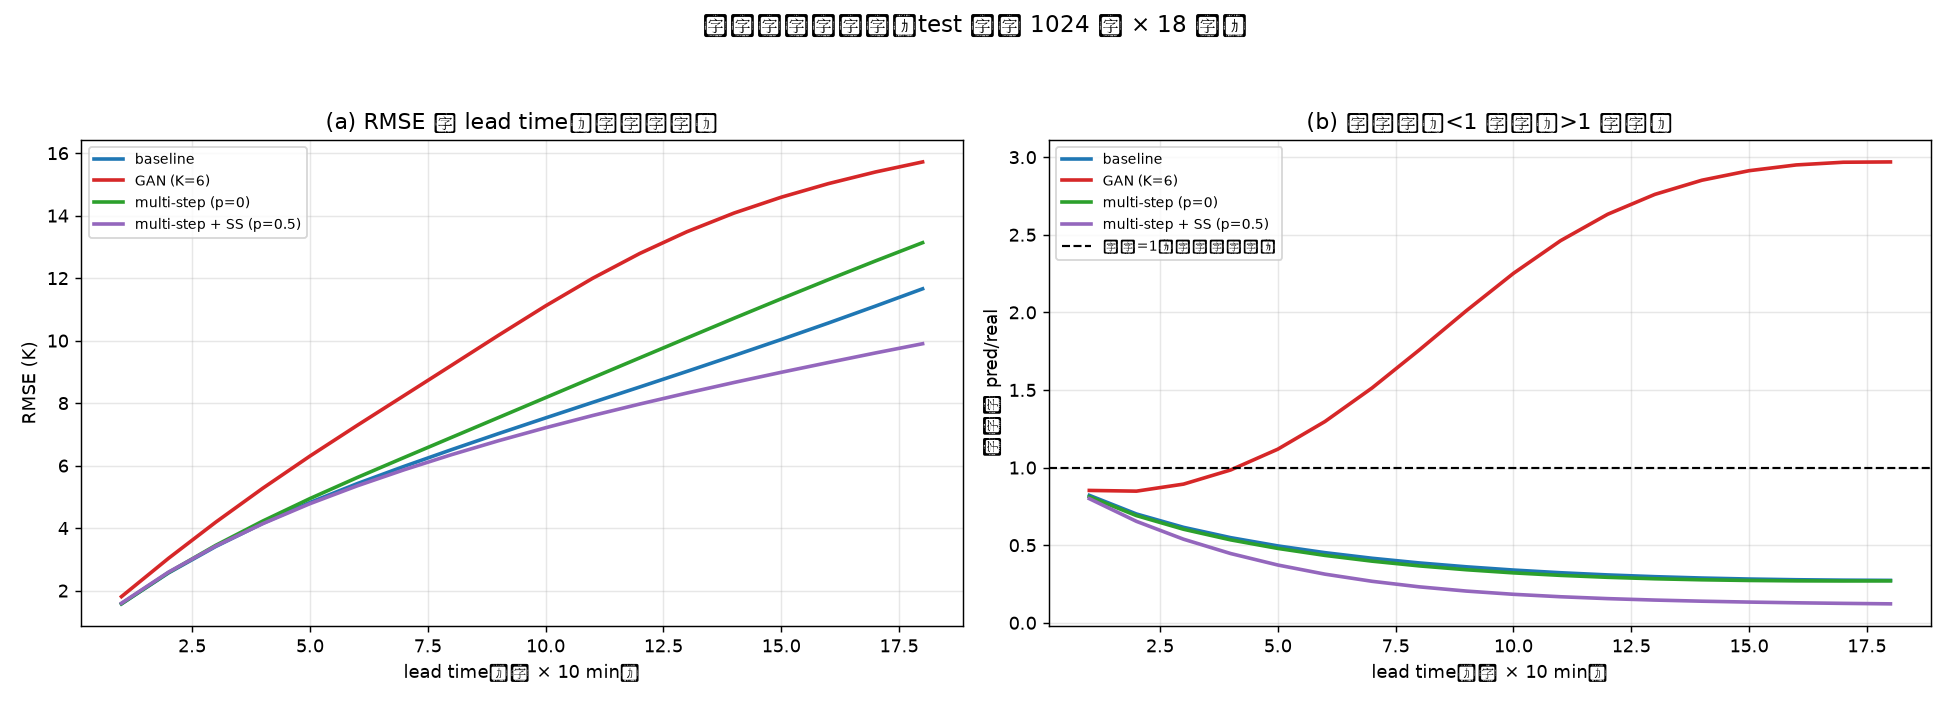
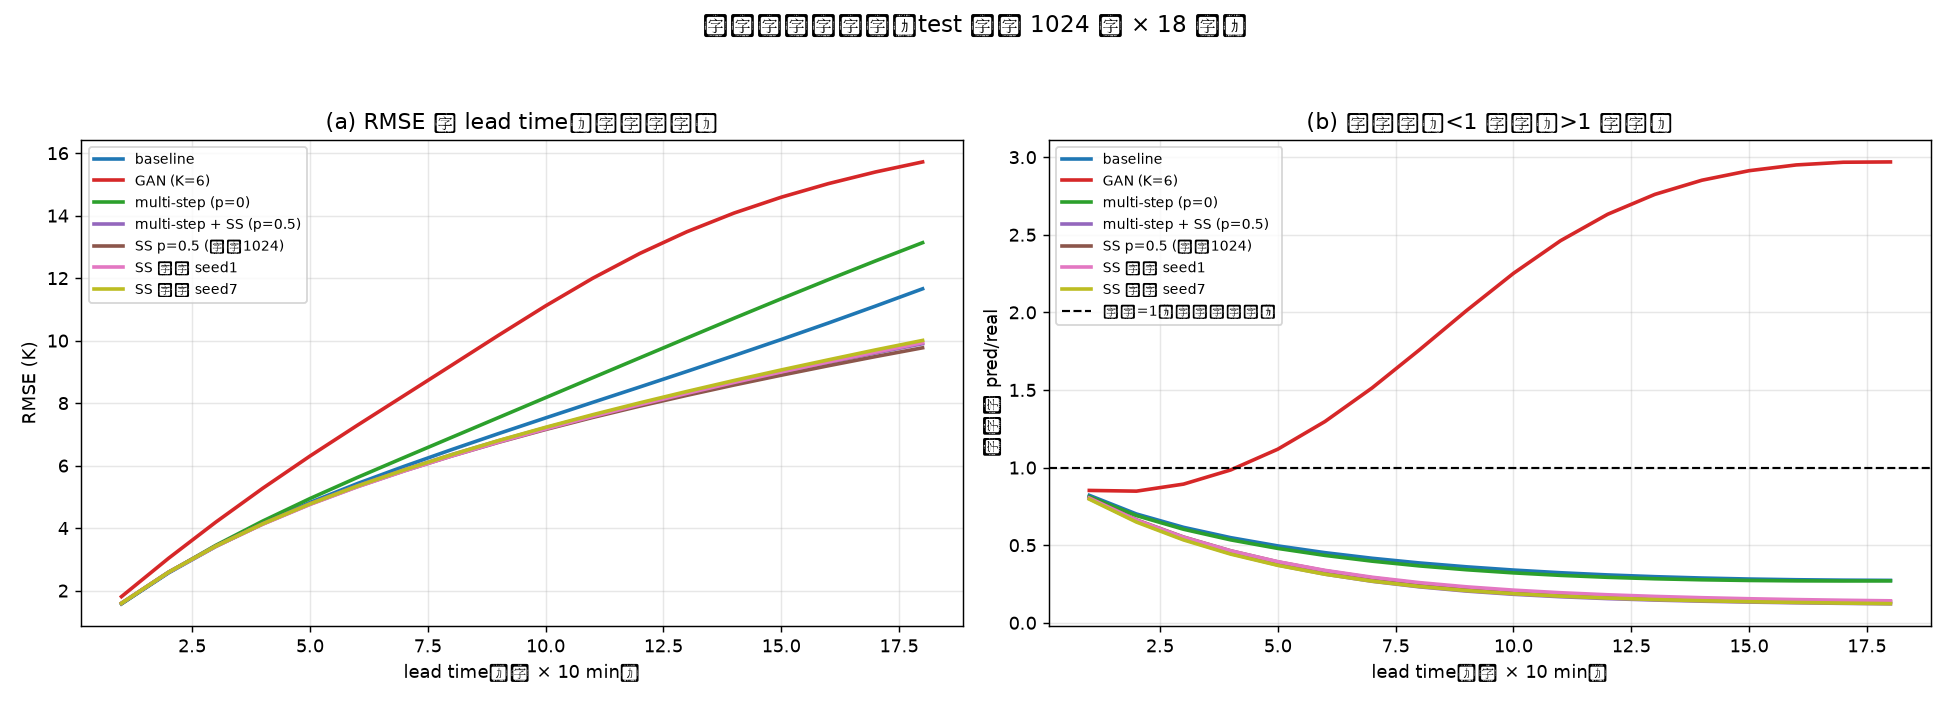
完成对三种模型和长时效本身的对比

diff --git a/reproduction/simvp/OpenSTL/tools/train_simvp_rollout.py b/reproduction/simvp/OpenSTL/tools/train_simvp_rollout.py
@@ -114,6 +114,10 @@ def main():
                     help='多步训练数据（该集 output 有 18 帧真值）')
     ap.add_argument('--n-train', type=int, default=800, help='训练用样本数（取前 N 条）')
     ap.add_argument('--n-val', type=int, default=224, help='验证用样本数（取后 M 条）')
+    ap.add_argument('--val-source', choices=['validation', 'train'],
+                    default='validation',
+                    help='验证集来源：validation=从多步训练集中切分（默认）；'
+                         'train=改用 train zarr 留出子集，从而训练集可用满全量')
     ap.add_argument('--rollout-steps', type=int, default=6)
     ap.add_argument('--sched-samp', type=float, default=0.0,
                     help='scheduled sampling 概率 p（0=纯 teacher forcing）')
@@ -145,16 +149,34 @@ def main():
         print(f'[INIT] 已从 {args.init_ckpt} 热启动')
     G.to(device)
 
-    # 数据源：validation 集（output 有 18 帧真值），按索引切分
+    # 数据源：多步监督要求 output 有 ≥K 帧真值，只有 validation 集满足（18 帧）。
+    # 两种配置：
+    #   --val-source validation（默认）：validation 集自身切分训练/验证
+    #   --val-source train：训练集用满**全部** validation 样本，
+    #     验证集改用 train zarr 的末尾留出子集（仅 1 帧真值 → 按单步 MSE 验证）。
+    #     这样能解除"训练集最多 1024 条"的上限，用于检验收益是否只是小样本假象。
     zarr_path = osp.join(args.data_root, args.train_zarr)
     full = SatcastZarrDataset(zarr_path, pre_seq_length=2, aft_seq_length=K)
     n_total = len(full)
-    n_tr = min(args.n_train, n_total - args.n_val)
-    n_va = min(args.n_val, n_total - n_tr)
-    train_set = _SubsetWithAttrs(full, range(0, n_tr))
-    val_set = _SubsetWithAttrs(full, range(n_total - n_va, n_total))
-    print(f'[DATA] {osp.basename(zarr_path)}  总 {n_total} 条 -> '
-          f'train {len(train_set)} / val {len(val_set)}（test 集保持 held-out）')
+    if args.val_source == 'train':
+        n_tr = min(args.n_train, n_total)
+        train_set = _SubsetWithAttrs(full, range(0, n_tr))
+        train_zarr = SatcastZarrDataset(
+            osp.join(args.data_root, 'edm_GOES_ch13_train_dataset.zarr'),
+            pre_seq_length=2, aft_seq_length=1)
+        n_va = min(args.n_val, len(train_zarr))
+        val_set = _SubsetWithAttrs(
+            train_zarr, range(len(train_zarr) - n_va, len(train_zarr)))
+        print(f'[DATA] 训练 = validation 集前 {n_tr} 条（output {K} 帧真值，全量）；'
+              f'验证 = train 集末尾 {n_va} 条（单步 MSE，1 帧真值）；'
+              f'test 集保持 held-out')
+    else:
+        n_tr = min(args.n_train, n_total - args.n_val)
+        n_va = min(args.n_val, n_total - n_tr)
+        train_set = _SubsetWithAttrs(full, range(0, n_tr))
+        val_set = _SubsetWithAttrs(full, range(n_total - n_va, n_total))
+        print(f'[DATA] {osp.basename(zarr_path)}  总 {n_total} 条 -> '
+              f'train {len(train_set)} / val {len(val_set)}（test 集保持 held-out）')
 
     persistent = args.num_workers > 0
     train_loader = create_loader(
@@ -227,8 +249,11 @@ def main():
         with torch.no_grad():
             for xb, yb in val_loader:
                 xb, yb = xb.to(device), yb.to(device)
-                p = rollout_with_ss(G, xb, yb, K, 0.0)      # 验证时不用 SS
-                vsum += float(sum(F.mse_loss(p[k], yb[:, k]) for k in range(K)) / K)
+                # kv 动态：validation 集为 K 帧；train 集仅 1 帧
+                kv = yb.shape[1]
+                p = rollout_with_ss(G, xb, yb, kv, 0.0)      # 验证时不用 SS
+                vsum += float(sum(F.mse_loss(p[k], yb[:, k])
+                                  for k in range(kv)) / kv)
                 vnb += 1
         val = vsum / max(vnb, 1)
         rec = {'epoch': epoch, 'train_loss': tot / max(nb, 1),

diff --git a/reproduction/simvp/OpenSTL/tools/compare_arms.py b/reproduction/simvp/OpenSTL/tools/compare_arms.py
@@ -61,7 +61,13 @@ ARMS = [
     ('multi-step (p=0)', 'satcast_simvp_rollout_ss0.0', '#2ca02c',
      '多步 MSE，滚 6 步，teacher forcing'),
     ('multi-step + SS (p=0.5)', 'satcast_simvp_rollout_ss0.5', '#9467bd',
-     '多步 MSE + scheduled sampling 概率 0.5'),
+     '多步 MSE + scheduled sampling 概率 0.5（validation 800 条）'),
+    ('SS p=0.5 (全量1024)', 'satcast_simvp_rollout_ss05_full', '#8c564b',
+     '多步 MSE + scheduled sampling 0.5，训练用满 validation 1024 条'),
+    ('SS 全量 seed1', 'satcast_simvp_rollout_ss05_full_seed1', '#e377c2',
+     '同上，seed=1（用于 3-seed mean±std）'),
+    ('SS 全量 seed7', 'satcast_simvp_rollout_ss05_full_seed7', '#bcbd22',
+     '同上，seed=7（用于 3-seed mean±std）'),
 ]
 OUT_DIR = osp.join(_OPENSTL_DIR, 'docs', 'experiments', 'EXP-006-anti-blur')
 SUB = 'baseline_eval_rollout18_full'

diff --git a/reproduction/simvp/OpenSTL/docs/experiments/EXP-006-anti-blur/README.md b/reproduction/simvp/OpenSTL/docs/experiments/EXP-006-anti-blur/README.md
@@ -23,55 +23,58 @@
 
 ### 逐时效 RMSE（K）
 
-| LT | baseline | GAN (K=6) | multi-step (p=0) | multi-step + SS (p=0.5) |
-|---|---|---|---|---|
-|  1 |  1.576 |  1.807 |  1.577 |  1.597 |
-|  2 |  2.567 |  3.035 |  2.580 |  2.593 |
-|  3 |  3.411 |  4.189 |  3.448 |  3.424 |
-|  4 |  4.154 |  5.277 |  4.227 |  **4.143** |
-|  5 |  4.820 |  6.306 |  4.945 |  **4.782** |
-|  6 |  5.422 |  7.285 |  5.617 |  **5.351** |
-|  7 |  5.977 |  8.244 |  6.261 |  **5.868** |
-|  8 |  6.509 |  9.206 |  6.900 |  **6.348** |
-|  9 |  7.024 |  10.170 |  7.538 |  **6.796** |
-| 10 |  7.527 |  11.112 |  8.175 |  **7.212** |
-| 11 |  8.024 |  11.996 |  8.813 |  **7.604** |
-| 12 |  8.517 |  12.791 |  9.450 |  **7.971** |
-| 13 |  9.016 |  13.486 |  10.085 |  **8.323** |
-| 14 |  9.522 |  14.084 |  10.717 |  **8.661** |
-| 15 |  10.036 |  14.590 |  11.339 |  **8.986** |
-| 16 |  10.563 |  15.024 |  11.951 |  **9.299** |
-| 17 |  11.105 |  15.398 |  12.551 |  **9.606** |
-| 18 |  11.659 |  15.719 |  13.135 |  **9.901** |
+| LT | baseline | GAN (K=6) | multi-step (p=0) | multi-step + SS (p=0.5) | SS p=0.5 (全量1024) | SS 全量 seed1 | SS 全量 seed7 |
+|---|---|---|---|---|---|---|---|
+|  1 |  1.576 |  1.807 |  1.577 |  1.597 |  1.595 |  1.593 |  1.595 |
+|  2 |  2.567 |  3.035 |  2.580 |  2.593 |  2.590 |  2.585 |  2.590 |
+|  3 |  3.411 |  4.189 |  3.448 |  3.424 |  3.419 |  3.411 |  3.421 |
+|  4 |  4.154 |  5.277 |  4.227 |  **4.143** |  **4.134** |  **4.125** |  **4.138** |
+|  5 |  4.820 |  6.306 |  4.945 |  **4.782** |  **4.766** |  **4.756** |  **4.776** |
+|  6 |  5.422 |  7.285 |  5.617 |  **5.351** |  **5.326** |  **5.318** |  **5.344** |
+|  7 |  5.977 |  8.244 |  6.261 |  **5.868** |  **5.833** |  **5.828** |  **5.862** |
+|  8 |  6.509 |  9.206 |  6.900 |  **6.348** |  **6.304** |  **6.305** |  **6.346** |
+|  9 |  7.024 |  10.170 |  7.538 |  **6.796** |  **6.744** |  **6.752** |  **6.801** |
+| 10 |  7.527 |  11.112 |  8.175 |  **7.212** |  **7.155** |  **7.173** |  **7.227** |
+| 11 |  8.024 |  11.996 |  8.813 |  **7.604** |  **7.541** |  **7.573** |  **7.630** |
+| 12 |  8.517 |  12.791 |  9.450 |  **7.971** |  **7.904** |  **7.951** |  **8.010** |
+| 13 |  9.016 |  13.486 |  10.085 |  **8.323** |  **8.250** |  **8.313** |  **8.374** |
+| 14 |  9.522 |  14.084 |  10.717 |  **8.661** |  **8.580** |  **8.663** |  **8.725** |
+| 15 |  10.036 |  14.590 |  11.339 |  **8.986** |  **8.893** |  **8.996** |  **9.062** |
+| 16 |  10.563 |  15.024 |  11.951 |  **9.299** |  **9.196** |  **9.318** |  **9.385** |
+| 17 |  11.105 |  15.398 |  12.551 |  **9.606** |  **9.489** |  **9.631** |  **9.703** |
+| 18 |  11.659 |  15.719 |  13.135 |  **9.901** |  **9.771** |  **9.935** |  **10.007** |
 
 ### 锐度比（pred 梯度 / real 梯度）
 
-| LT | baseline | GAN (K=6) | multi-step (p=0) | multi-step + SS (p=0.5) |
-|---|---|---|---|---|
-|  1 | 0.821 | 0.853 | 0.812 | 0.800 |
-|  2 | 0.701 | 0.848 | 0.691 | 0.654 |
-|  3 | 0.615 | 0.894 | 0.603 | 0.538 |
-|  4 | 0.549 | 0.985 | 0.534 | 0.446 |
-|  5 | 0.495 | 1.119 | 0.479 | 0.372 |
-|  6 | 0.452 | 1.297 | 0.434 | 0.313 |
-|  7 | 0.416 | 1.513 | 0.397 | 0.267 |
-|  8 | 0.386 | 1.757 | 0.367 | 0.232 |
-|  9 | 0.361 | 2.010 | 0.342 | 0.204 |
-| 10 | 0.340 | 2.251 | 0.322 | 0.184 |
-| 11 | 0.323 | 2.462 | 0.306 | 0.168 |
-| 12 | 0.308 | 2.632 | 0.293 | 0.156 |
-| 13 | 0.297 | 2.760 | 0.284 | 0.146 |
-| 14 | 0.288 | 2.852 | 0.277 | 0.139 |
-| 15 | 0.282 | 2.913 | 0.273 | 0.133 |
-| 16 | 0.277 | 2.950 | 0.270 | 0.129 |
-| 17 | 0.275 | 2.967 | 0.269 | 0.125 |
-| 18 | 0.273 | 2.969 | 0.270 | 0.122 |
+| LT | baseline | GAN (K=6) | multi-step (p=0) | multi-step + SS (p=0.5) | SS p=0.5 (全量1024) | SS 全量 seed1 | SS 全量 seed7 |
+|---|---|---|---|---|---|---|---|
+|  1 | 0.821 | 0.853 | 0.812 | 0.800 | 0.805 | 0.803 | 0.797 |
+|  2 | 0.701 | 0.848 | 0.691 | 0.654 | 0.663 | 0.662 | 0.649 |
+|  3 | 0.615 | 0.894 | 0.603 | 0.538 | 0.553 | 0.552 | 0.534 |
+|  4 | 0.549 | 0.985 | 0.534 | 0.446 | 0.464 | 0.464 | 0.442 |
+|  5 | 0.495 | 1.119 | 0.479 | 0.372 | 0.393 | 0.394 | 0.370 |
+|  6 | 0.452 | 1.297 | 0.434 | 0.313 | 0.335 | 0.338 | 0.313 |
+|  7 | 0.416 | 1.513 | 0.397 | 0.267 | 0.290 | 0.294 | 0.268 |
+|  8 | 0.386 | 1.757 | 0.367 | 0.232 | 0.254 | 0.259 | 0.234 |
+|  9 | 0.361 | 2.010 | 0.342 | 0.204 | 0.226 | 0.232 | 0.208 |
+| 10 | 0.340 | 2.251 | 0.322 | 0.184 | 0.204 | 0.210 | 0.187 |
+| 11 | 0.323 | 2.462 | 0.306 | 0.168 | 0.187 | 0.194 | 0.172 |
+| 12 | 0.308 | 2.632 | 0.293 | 0.156 | 0.173 | 0.181 | 0.159 |
+| 13 | 0.297 | 2.760 | 0.284 | 0.146 | 0.163 | 0.170 | 0.150 |
+| 14 | 0.288 | 2.852 | 0.277 | 0.139 | 0.154 | 0.162 | 0.142 |
+| 15 | 0.282 | 2.913 | 0.273 | 0.133 | 0.148 | 0.155 | 0.136 |
+| 16 | 0.277 | 2.950 | 0.270 | 0.129 | 0.142 | 0.150 | 0.131 |
+| 17 | 0.275 | 2.967 | 0.269 | 0.125 | 0.138 | 0.145 | 0.127 |
+| 18 | 0.273 | 2.969 | 0.270 | 0.122 | 0.134 | 0.142 | 0.123 |
 
 ### 结论（自动判定）
 
 - **GAN (K=6)**：LT=18 RMSE 恶化 34.8% ❌；锐度比 2.969（baseline 0.273）（过冲/噪声）
 - **multi-step (p=0)**：LT=18 RMSE 恶化 12.7% ❌；锐度比 0.270（baseline 0.273）（仍偏模糊）
 - **multi-step + SS (p=0.5)**：LT=18 **RMSE 改善 15.1%** ✅；锐度比 0.122（baseline 0.273）（仍偏模糊）
+- **SS p=0.5 (全量1024)**：LT=18 **RMSE 改善 16.2%** ✅；锐度比 0.134（baseline 0.273）（仍偏模糊）
+- **SS 全量 seed1**：LT=18 **RMSE 改善 14.8%** ✅；锐度比 0.142（baseline 0.273）（仍偏模糊）
+- **SS 全量 seed7**：LT=18 **RMSE 改善 14.2%** ✅；锐度比 0.123（baseline 0.273）（仍偏模糊）
 
 > ⚠ 对照局限：GAN 臂用 train 集（35595 条，1 帧真值）训练；多步臂用 validation 集（800 条，18 帧真值）训练。两者**训练数据来源不同**，本对照比较的是"同热启动起点、同 8000 步预算下哪种改进方向更有效"。
 <!-- ARMS:END -->
